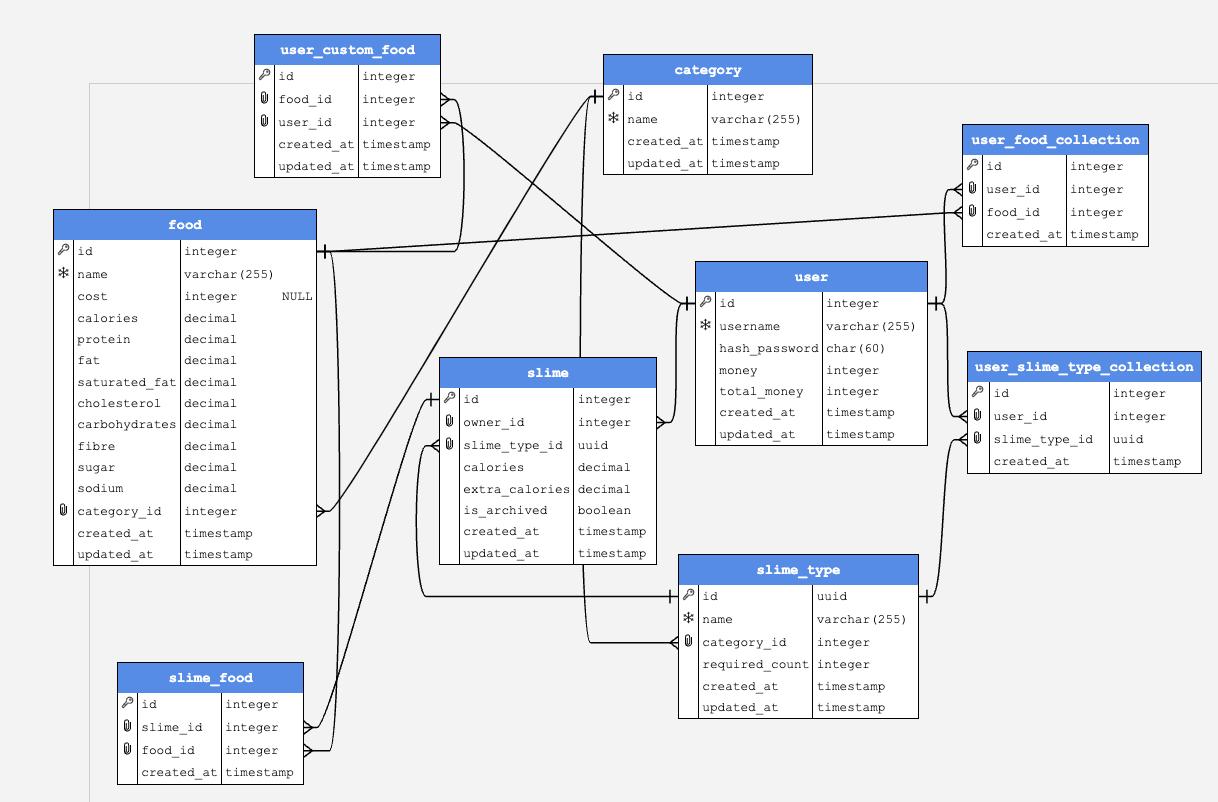
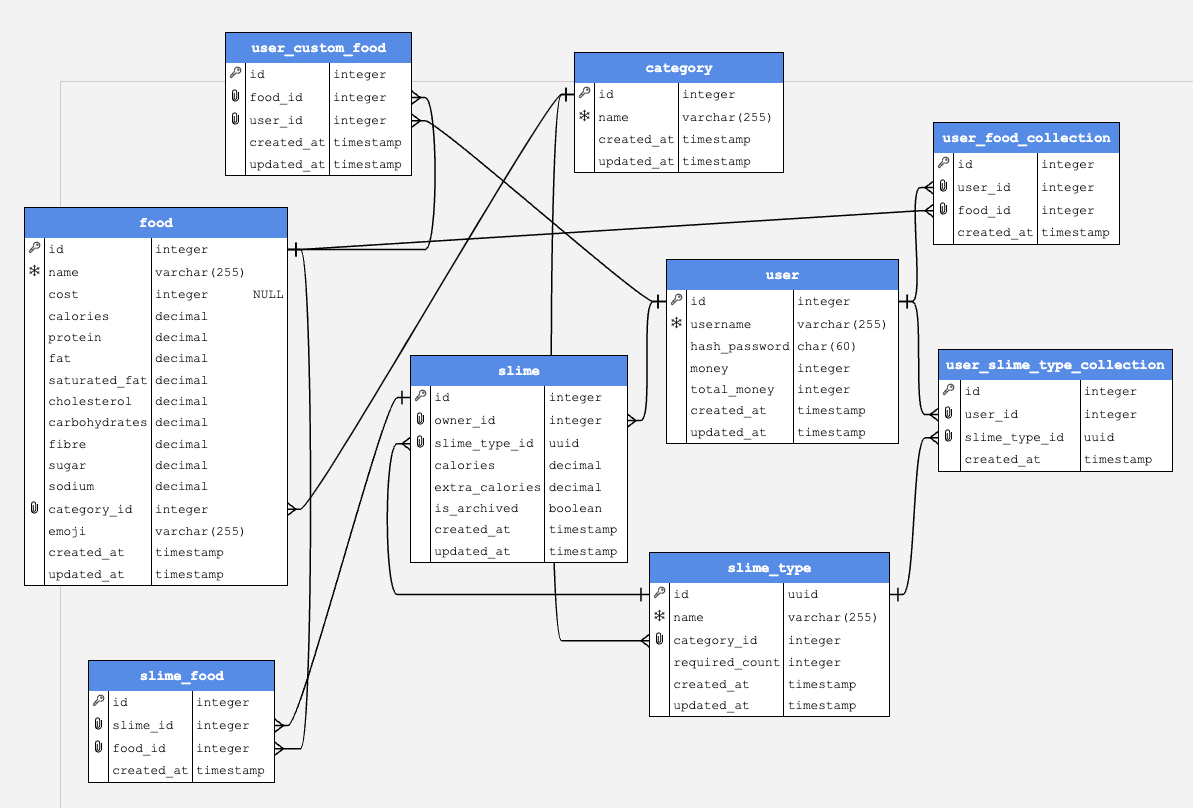
docs: updated food with emoji col

Changed region(s): [[0.0, 0.0312, 0.9925, 0.9975]]

diff --git a/node_server/models/dbModels.ts b/node_server/models/dbModels.ts
@@ -52,6 +52,7 @@ export type Food = {
   fibre: number;
   sugar: number;
   sodium: number;
+  emoji: string;
   created_at: string;
   updated_at: string;
 };
